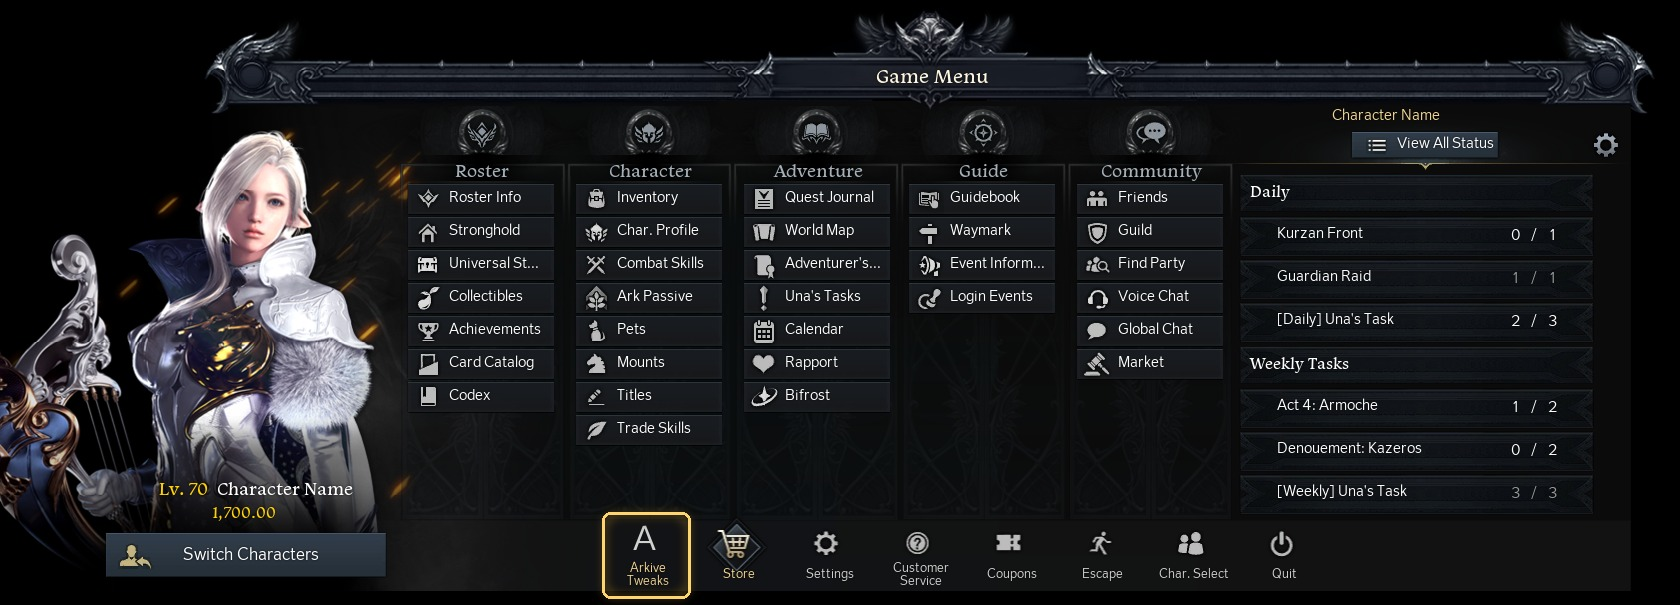
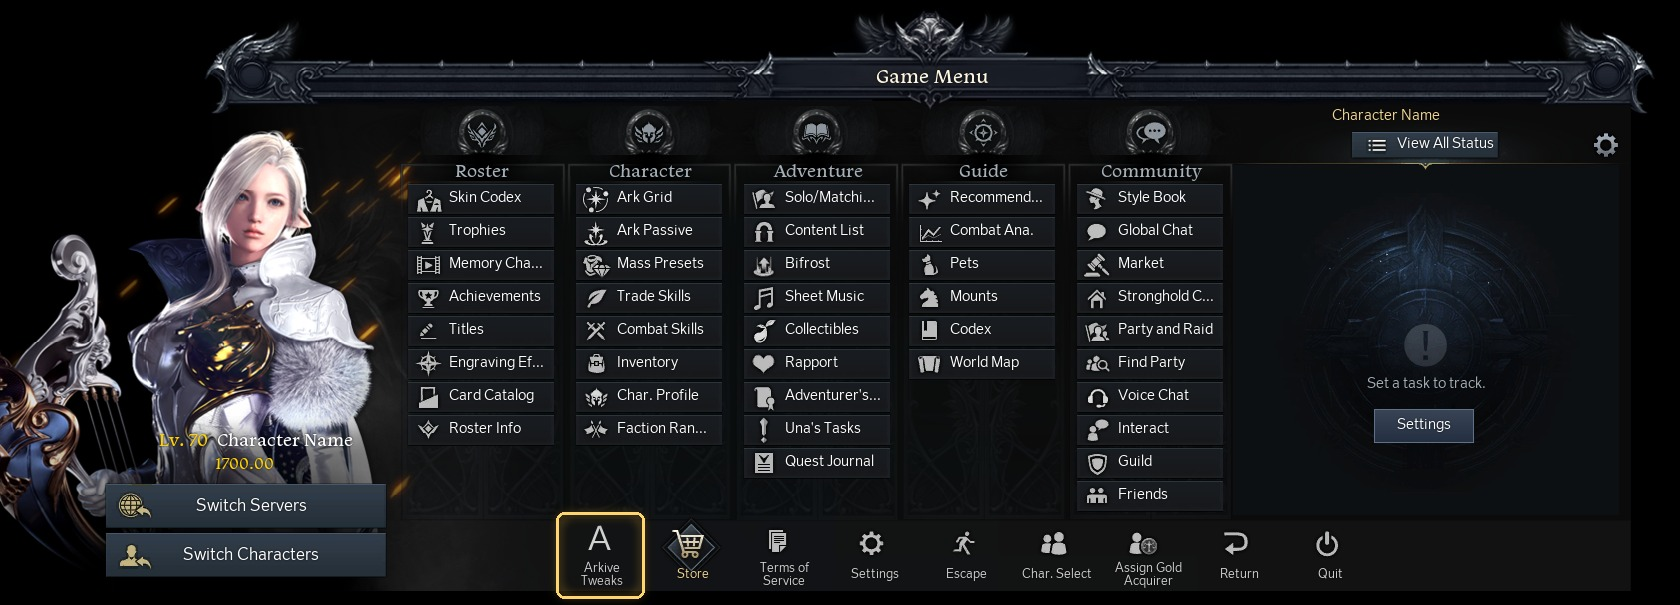
Escape menu picture: menu rows and bottom bar as the English client shows them
Matched to an in-game capture: the five columns' entries and icons, Terms of
Service / Assign Gold Acquirer / Return in the bottom bar, Switch Servers above
Switch Characters with the name moved up, the task tracker's empty state, and
the Arkive Tweaks label in the bar's grey.

diff --git a/eng/tweaks/escape-menu/scene.py b/eng/tweaks/escape-menu/scene.py
@@ -30,38 +30,35 @@ layout = {
                      'containerMc'],
     'hidden_ids': [],
     'hide_in': {
-        '111': ['serverChangeButton'],
-        '147': ['loadingBgMc', 'blockLabel'],
+        '111': ['serverChangeButton'],   # placed again below, above Switch Characters, as the game shows both
+        '147': ['loadingBgMc'],
     },
     'first_frame': [{'sprite': '37', 'character': '26'}],   # class art (Bard) on the class image's first frame
     'variants': {
         '9001': {'base': '586', 'hide': ['over_mc', 'newIcon']},                          # menu row
         '9002': {'base': '644', 'hide': ['spacialBgMc', 'newIconMc']},                    # bottom button
         '9003': {'base': '644', 'hide': ['newIconMc']},                                   # bottom button, special (Store)
-        '9004': {'base': '309', 'hide': ['childBgMc1', 'childBgMc2', 'childBgMc3', 'childBgMc4', 'endContentsBgMc',
-                                         'bookMarkBgMc', 'over_mc', 'lineMc', 'bonusGauge', 'noGoldIconMc',
-                                         'emoticonTooltipMc', 'noRewardIconMc', 'arrow_mc', 'blockLabel',
-                                         'thirdPointMc']},                                # content heading
-        '9005': {'base': '309', 'hide': ['childBgMc0', 'childBgMc2', 'childBgMc3', 'childBgMc4', 'endContentsBgMc',
-                                         'bookMarkBgMc', 'over_mc', 'lineMc', 'noGoldIconMc', 'emoticonTooltipMc',
-                                         'noRewardIconMc', 'arrow_mc', 'blockLabel', 'thirdPointMc']},  # content row
     },
+    'buttons': [],
 }
 
 # --- title on the frame's centre plate ---
 text('Game Menu', 907, 261, 350, 30, 20, '#fff7e2', TITLE, 'center')
 
-# --- the five menu columns: title, then rows of icon + name ---
+# --- the five menu columns as the English client fills them: title, then rows of icon + name ---
 columns = [
-    (557, 'Roster', [(53, 'Roster Info'), (59, 'Stronghold'), (38, 'Universal Storage'), (36, 'Collectibles'),
-                     (46, 'Achievements'), (16, 'Card Catalog'), (17, 'Codex')]),
-    (725, 'Character', [(0, 'Inventory'), (1, 'Char. Profile'), (2, 'Combat Skills'), (64, 'Ark Passive'),
-                        (20, 'Pets'), (29, 'Mounts'), (26, 'Titles'), (4, 'Trade Skills')]),
-    (893, 'Adventure', [(3, 'Quest Journal'), (11, 'World Map'), (7, "Adventurer's Tome"), (19, "Una's Tasks"),
-                        (27, 'Calendar'), (12, 'Rapport'), (60, 'Bifrost')]),
-    (1058, 'Guide', [(30, 'Guidebook'), (21, 'Waymark'), (34, 'Event Information'), (28, 'Login Events')]),
-    (1226, 'Community', [(6, 'Friends'), (10, 'Guild'), (40, 'Find Party'), (39, 'Voice Chat'), (72, 'Global Chat'),
-                         (61, 'Market')]),
+    (557, 'Roster', [(76, 'Skin Codex'), (69, 'Trophies'), (62, 'Memory Chamber'), (46, 'Achievements'),
+                     (26, 'Titles'), (25, 'Engraving Effect'), (16, 'Card Catalog'), (53, 'Roster Info')]),
+    (725, 'Character', [(78, 'Ark Grid'), (73, 'Ark Passive'), (65, 'Mass Presets'), (4, 'Trade Skills'),
+                        (2, 'Combat Skills'), (0, 'Inventory'), (1, 'Char. Profile'), (66, 'Faction Rank Info')]),
+    (893, 'Adventure', [(74, 'Solo/Matching Mode'), (67, 'Content List'), (55, 'Bifrost'), (18, 'Sheet Music'),
+                        (36, 'Collectibles'), (12, 'Rapport'), (7, "Adventurer's Tome"), (19, "Una's Tasks"),
+                        (3, 'Quest Journal')]),
+    (1058, 'Guide', [(79, 'Recommended Settings'), (77, 'Combat Ana.'), (20, 'Pets'), (29, 'Mounts'), (17, 'Codex'),
+                     (11, 'World Map')]),
+    (1226, 'Community', [(71, 'Style Book'), (72, 'Global Chat'), (61, 'Market'), (59, 'Stronghold Community'),
+                         (42, 'Party and Raid'), (40, 'Find Party'), (39, 'Voice Chat'), (5, 'Interact'),
+                         (10, 'Guild'), (6, 'Friends')]),
 ]
 for x, title, rows in columns:
     text(title, x - 2 + 2, 356, 150, 24, 18, '#a4afb7', TITLE, 'center')
@@ -71,50 +68,28 @@ for x, title, rows in columns:
         put(f'ExitMenuCategory_ListItemIcon_{icon}', x + 6, y + 2)
         text(name, x + 40, y + 6, 100, 21, 14, '#ffffff', omit=True)
 
-# --- character info (bottom left) ---
+# --- character info (bottom left): level and name centred over the buttons, item level below ---
 ix, iy = 255, 606
-level, name = 'Lv. 70', 'Character Name'
-text(level, ix + 52, iy + 68, 60, 24, 18, '#ffd200', TITLE)
-text(name, ix + 52 + 58, iy + 68, 220, 24, 18, '#ffffff', TITLE)
-text('1,700.00', ix + 39, iy + 93, 200, 22, 16, '#ffd200', TITLE, 'center')
+servers_y = iy + 121 - 49   # with both buttons showing, the name and item level move up by one button
+text('Lv. 70', ix + 52, iy + 68 - 49, 60, 24, 18, '#ffd200', TITLE)
+text('Character Name', ix + 52 + 58, iy + 68 - 49, 220, 24, 18, '#ffffff', TITLE)
+text('1700.00', ix + 39, iy + 93 - 49, 200, 22, 16, '#ffd200', TITLE, 'center')
+put('Exitmenu_serverChangeButton', ix, servers_y)
+text('Switch Servers', ix + 32, servers_y + 13, 228, 21, 16, '#ffffff', BODY, 'center')
 text('Switch Characters', ix + 32, iy + 134, 228, 21, 16, '#ffffff', BODY, 'center')
 
-# --- content status (right) ---
+# --- content status (right), as it shows before a task is set to track ---
 cx, cy = 1357, 252
 text('Character Name', cx + 49, cy + 50, 260, 20, 14, '#f2d694', BODY, 'center')
 text('View All Status', cx + 143 + 45, cy + 73 + 5, 120, 20, 14, '#ffffff')
-tx, ty = cx + 32, cy + 116
-content = [
-    ('head', 'Daily'),
-    ('row', 'Kurzan Front', 0, 1, -1),
-    ('row', 'Guardian Raid', 1, 1, -1),
-    ('row', "[Daily] Una's Task", 2, 3, -1),
-    ('head', 'Weekly Tasks'),
-    ('row', 'Act 4: Armoche', 1, 2, -1),
-    ('row', 'Denouement: Kazeros', 0, 2, -1),
-    ('row', "[Weekly] Una's Task", 3, 3, -1),
-]
-for i, item in enumerate(content):
-    y = ty + i * 43
-    if item[0] == 'head':
-        put('9004', tx, y)
-        text(item[1], tx + 9, y + 10, 300, 22, 16, '#ffffff', TITLE)
-    else:
-        _, label, cur, most, bonus = item
-        put('9005', tx, y)
-        name_y = 6 if bonus > -1 else 9
-        text(label, tx + 36, y + name_y, 240, 21, 14, '#ffffff')
-        done = cur >= most
-        tint = '#999999' if done else '#ffffff'
-        text(str(cur), tx + 259, y + 11, 35, 21, 14, tint, BODY, 'center')
-        text('/', tx + 274, y + 11, 42, 21, 14, tint, BODY, 'center')
-        text(str(most), tx + 296, y + 11, 35, 21, 14, tint, BODY, 'center')
+text('Set a task to track.', cx + 26 + 2 - 2, cy + 108 + 169.6 + 40.5, 386, 23, 14, '#a4afb7', BODY, 'center')
+layout['buttons'].append({'x': cx + 167, 'y': cy + 352, 'w': 100, 'h': 34, 'label': 'Settings'})
 
 # --- bottom bar: the game's buttons, centred, and Arkive Tweaks one button left of Store ---
 bar_x, bar_y, bar_w = 549, 711, 128 * 9.626
 pitch = 80 + 11
-buttons = [(45, 'Store', True), (9, 'Settings', False), (14, 'Customer Service', False), (15, 'Coupons', False),
-           (24, 'Escape', False), (31, 'Char. Select', False), (33, 'Quit', False)]
+buttons = [(45, 'Store', True), (63, 'Terms of Service', False), (9, 'Settings', False), (24, 'Escape', False),
+           (31, 'Char. Select', False), (68, 'Assign Gold Acquirer', False), (32, 'Return', False), (33, 'Quit', False)]
 start = bar_x + (bar_w - pitch * len(buttons)) / 2
 for i, (icon, label, special) in enumerate(buttons):
     x = start + i * pitch
@@ -124,8 +99,7 @@ for i, (icon, label, special) in enumerate(buttons):
 arkive_x = start - pitch
 put('9002', arkive_x, bar_y)
 layout['arkive_button'] = {'x': arkive_x, 'y': bar_y, 'w': 80, 'h': 80, 'icon_x': arkive_x + 19, 'icon_y': bar_y + 6}
-# Our label copies Store's look (dress() takes the format and colour of the button it sits beside).
-text('Arkive Tweaks', arkive_x + 2, bar_y + 40, 80, 38, 12, '#f2d694', BODY, 'center', 'center')
+text('Arkive Tweaks', arkive_x + 2, bar_y + 40, 80, 38, 12, '#d1d2d0', BODY, 'center', 'center')
 
 layout['places'] = places
 layout['crop'] = [150, 195, 1830, 800]   # from the frame's top ornament to the bottom bar

diff --git a/eng/tweaks/escape-menu/overlay.py b/eng/tweaks/escape-menu/overlay.py
@@ -74,6 +74,16 @@ def draw_text(layer, item):
 
 frame = Image.open(sys.argv[2]).convert('RGBA')
 layout = json.load(open(os.path.join(here, 'layout.json')))
+# Buttons made from shared component symbols the movie can't draw on its own (the task tracker's Settings).
+for b in layout.get('buttons', []):
+    box = Image.new('RGBA', (b['w'], b['h']))
+    for row in range(b['h']):
+        shade = 74 - int(22 * row / b['h'])
+        ImageDraw.Draw(box).line((0, row, b['w'], row), fill=(shade - 18, shade - 6, shade + 12, 255))
+    ImageDraw.Draw(box).rectangle((0, 0, b['w'] - 1, b['h'] - 1), outline=(96, 112, 134, 255))
+    frame.alpha_composite(box, (int(b['x']), int(b['y'])))
+    draw_text(frame, dict(text=b['label'], x=b['x'], y=b['y'], w=b['w'], h=b['h'], size=14, color='#ffffff',
+                          font='body', align='center', valign='center'))
 for item in json.load(open(os.path.join(here, 'texts.json'))):
     draw_text(frame, item)
 
